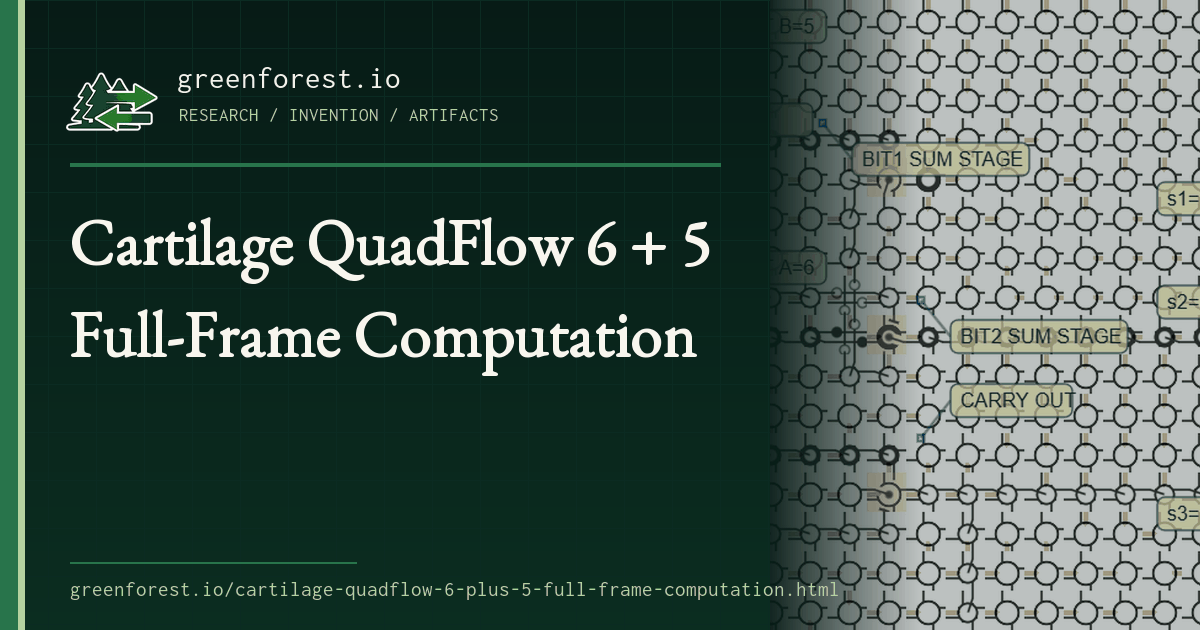
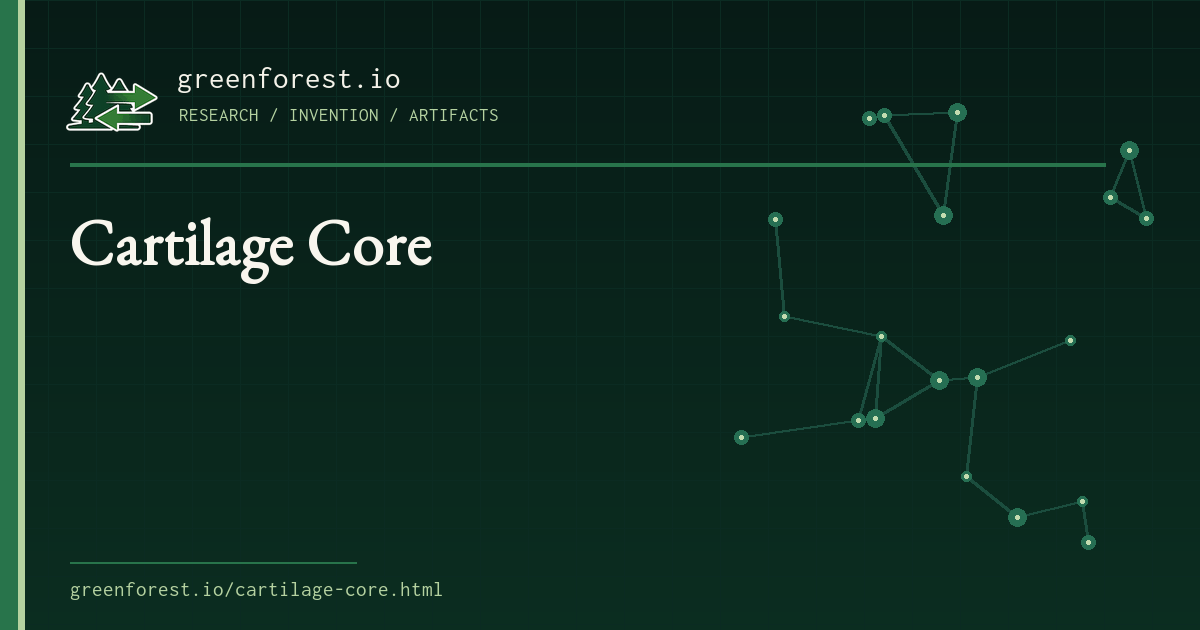
Replace obsolete Cartilage run links

diff --git a/cartilage-quadflow-6-plus-5-full-frame-computation.html b/cartilage-quadflow-6-plus-5-full-frame-computation.html
@@ -1,203 +1,43 @@
-<!doctype html>
+<!DOCTYPE html>
 <html lang="en">
 
 <head>
     <meta charset="utf-8">
-    <meta name="viewport" content="width=device-width, initial-scale=1">
+    <meta name="viewport" content="width=device-width, initial-scale=1, viewport-fit=cover">
+    <title>Cartilage Core | Greenforest I/O</title>
+    <meta name="description" content="This obsolete Cartilage run page has moved to Cartilage Core, the current WebGL, SystemVerilog, hardware-paper, and verification package.">
     <meta name="robots" content="noindex, follow">
-    <title>Cartilage QuadFlow 6 + 5 Full-Frame Computation</title>
-    <meta name="description" content="A full-frame Cartilage/QuadFlow browser-fabric computation of 6 + 5 through a seeded 3-bit ripple-carry adder body: 256 update cycles, 257 captured committed states, QFG source, manifests, and run reports.">
-    <link rel="canonical" href="https://greenforest.io/cartilage-quadflow-6-plus-5-full-frame-computation.html">
-    <meta property="og:title" content="Cartilage QuadFlow 6 + 5 Full-Frame Computation">
-    <meta property="og:description" content="A 257-frame artifact package showing a Cartilage GLSL fabric computing 6 + 5 through a seeded 3-bit ripple-carry adder body.">
-    <meta property="og:type" content="article">
-    <meta property="og:url" content="https://greenforest.io/cartilage-quadflow-6-plus-5-full-frame-computation.html">
-        <link rel="icon" href="/favicon.ico">
+    <link rel="canonical" href="https://greenforest.io/cartilage-core.html">
+    <meta http-equiv="refresh" content="0; url=/cartilage-core.html">
+    <link rel="icon" href="/favicon.ico">
+    <meta property="og:title" content="Cartilage Core">
+    <meta property="og:description" content="The current WebGL, SystemVerilog, hardware-paper, and verification package for Cartilage.">
+    <meta property="og:type" content="website">
+    <meta property="og:url" content="https://greenforest.io/cartilage-core.html">
     <!-- greenforest:share-metadata:start -->
-    <!-- greenforest:preview-source:cartilage/codex5.5/use-static3-a6-b5-callouts-final-state.png -->
+    <!-- greenforest:preview-source:none -->
     <meta property="og:site_name" content="Greenforest I/O">
     <meta property="og:image" content="https://greenforest.io/social-previews/cartilage-quadflow-6-plus-5-full-frame-computation.png">
     <meta property="og:image:secure_url" content="https://greenforest.io/social-previews/cartilage-quadflow-6-plus-5-full-frame-computation.png">
     <meta property="og:image:type" content="image/png">
     <meta property="og:image:width" content="1200">
     <meta property="og:image:height" content="630">
-    <meta property="og:image:alt" content="Cartilage QuadFlow 6 + 5 Full-Frame Computation - Greenforest I/O share preview">
+    <meta property="og:image:alt" content="Cartilage Core - Greenforest I/O share preview">
     <meta name="twitter:card" content="summary_large_image">
     <meta name="twitter:image" content="https://greenforest.io/social-previews/cartilage-quadflow-6-plus-5-full-frame-computation.png">
-    <meta name="twitter:image:alt" content="Cartilage QuadFlow 6 + 5 Full-Frame Computation - Greenforest I/O share preview">
+    <meta name="twitter:image:alt" content="Cartilage Core - Greenforest I/O share preview">
     <script src="/site-analytics.js" defer></script>
     <!-- greenforest:share-metadata:end -->
-    <script type="application/ld+json">
-        {
-            "@context": "https://schema.org",
-            "@type": "Article",
-            "headline": "Cartilage QuadFlow 6 + 5 Full-Frame Computation",
-            "author": {
-                "@type": "Person",
-                "name": "Brian Greenforest"
-            },
-            "datePublished": "2026-06-25",
-            "dateModified": "2026-07-10",
-            "image": "https://greenforest.io/cartilage/codex5.5/use-static3-a6-b5-callouts-final-state.png",
-            "description": "A full-frame Cartilage/QuadFlow browser-fabric computation of 6 + 5 through a seeded 3-bit ripple-carry adder body: 256 update cycles, 257 captured committed states, QFG source, manifests, and run reports.",
-            "mainEntityOfPage": "https://greenforest.io/cartilage-quadflow-6-plus-5-full-frame-computation.html",
-            "publisher": {
-                "@type": "Person",
-                "name": "Brian Greenforest"
-            }
-        }
-    </script>
     <script src="/common-script.js" type="text/javascript"></script>
 </head>
 
-<body>
-    <header>Cartilage QuadFlow 6 + 5 Full-Frame Computation</header>
-    <address>June 25, 2026</address>
-
-    <section class="abstract">
-        <p>The answer is less important than the fact that the computation passes through a readable body.</p>
-        <p>This package documents a real browser-fabric computation: a 64x64 Cartilage GLSL fabric seeded with a generated 3-bit ripple-carry adder body, driven by one external input frame for <code>a = 6</code> and <code>b = 5</code>, then advanced for 256 committed update cycles.</p>
-        <p>The output ports read <code>s0 = 1</code>, <code>s1 = 1</code>, <code>s2 = 0</code>, and <code>s3 = 1</code>. In the adder's little-endian output order that is <code>1101</code>; in ordinary most-significant-bit display order it is <code>1011</code>, decimal <code>11</code>.</p>
-        <div class="status-box">
-            <p><span class="status-label">Measured compute run</span>This page is part of the <a href="/ai-assisted-cartilage-draft-archive.html">Cartilage Run and Sketch Index</a>.</p>
-            <p><strong>Included:</strong> <code>6 + 5 = 11</code>, a <code>64x64</code> fabric, <code>256</code> update cycles, <code>257</code> captured committed states, QFG source, manifests, videos, run reports, and boundary I/O decode.</p>
-            <p><strong>Run focus:</strong> a measured compute pass through a pre-generated adder body, with visible input lanes, output lanes, and expected sum/carry behavior.</p>
-        </div>
-    </section>
-
+<body class="article-structured">
+    <header><h1 class="page-title">Cartilage Core</h1></header>
     <main>
-        <section>
-            <h1>The Compute Claim</h1>
-            <p>The driver does not compute the arithmetic answer. It seeds the browser fabric with primitive Cartilage cell bodies, stages sparse boundary-metal writes for one QFG frame, advances the fabric, and reads the external edge surface.</p>
-            <p>The measured run is not the 525,568-cycle native reconfiguration run. The adder body is installed as the initial QFG seed before the measured compute run begins. The claim here is narrower and easier to read: an existing Cartilage body receives input bits at its boundary and computes the visible result through its cell state.</p>
-        </section>
-
-        <section>
-            <h1>Callout Video</h1>
-            <figure class="timeline-media">
-                <video controls preload="metadata" poster="/cartilage/codex5.5/use-static3-a6-b5-callouts-final-state.png">
-                    <source src="/cartilage/codex5.5/quadflow-use-static3-a6-b5-fullframes-callouts-257.mp4" type="video/mp4">
-                    <a href="/cartilage/codex5.5/quadflow-use-static3-a6-b5-fullframes-callouts-257.mp4">Open the callout MP4</a>
-                </video>
-                <figcaption>The preferred publication video: 257 contiguous committed states, with sparse callouts for operand inputs, sum stages, carry-out, and result ports.</figcaption>
-            </figure>
-            <p><a href="/cartilage/codex5.5/quadflow-use-static3-a6-b5-fullframes-callouts-257.gif">Open the callout GIF preview</a></p>
-        </section>
-
-        <section>
-            <h1>Final State</h1>
-            <figure class="timeline-media">
-                <a href="/cartilage/codex5.5/use-static3-a6-b5-callouts-final-state.png">
-                    <img src="/cartilage/codex5.5/use-static3-a6-b5-callouts-final-state.png" alt="Final callout-rendered Cartilage state for the 6 plus 5 computation, labeling input A, input B, sum stages, carry out, and s0 through s3 result ports">
-                </a>
-                <figcaption>The final committed state labels <code>INPUT_A=6</code>, <code>INPUT_B=5</code>, <code>BIT1_SUM_STAGE</code>, <code>BIT2_SUM_STAGE</code>, <code>CARRY_OUT</code>, and the four result ports.</figcaption>
-            </figure>
-        </section>
-
-        <section>
-            <h1>The Artifact Bundle</h1>
-            <p>The files are preserved under <code>cartilage/codex5.5/</code>. These links point to concrete files, not directory listings.</p>
-            <ul class="artifact-list">
-                <li><a href="/cartilage/codex5.5/quadflow-use-static3-a6-b5-fullframes.md">quadflow-use-static3-a6-b5-fullframes.md</a> - package note and reproduction commands.</li>
-                <li><a href="/cartilage/codex5.5/use-static3-a6-b5.qfg">use-static3-a6-b5.qfg</a> - exact QFG source streamed into the browser fabric.</li>
-                <li><a href="/cartilage/codex5.5/use-static3-a6-b5-callouts.surface.qfg">use-static3-a6-b5-callouts.surface.qfg</a> - sparse publication callout labels.</li>
-                <li><a href="/cartilage/codex5.5/use-static3-a6-b5-run-report.md">use-static3-a6-b5-run-report.md</a> - raw lockstep run report for the coordinate render.</li>
-                <li><a href="/cartilage/codex5.5/use-static3-a6-b5-callouts-run-report.md">use-static3-a6-b5-callouts-run-report.md</a> - raw lockstep run report for the callout render.</li>
-                <li><a href="/cartilage/codex5.5/quadflow-use-static3-a6-b5-fullframes-manifest.json">quadflow-use-static3-a6-b5-fullframes-manifest.json</a> - frame list, hashes, and verification metadata for the plain render.</li>
-                <li><a href="/cartilage/codex5.5/quadflow-use-static3-a6-b5-fullframes-callouts-manifest.json">quadflow-use-static3-a6-b5-fullframes-callouts-manifest.json</a> - frame list, hashes, and verification metadata for the callout render.</li>
-            </ul>
-        </section>
-
-        <section>
-            <h1>Frame Coverage</h1>
-            <p>The computation ran for 256 fabric update cycles. The capture contains 257 PNGs because it includes cycle <code>0</code>, then every committed state after cycles <code>1</code> through <code>256</code>. The MP4 frame count was verified as 257 frames at 512x512 and 30 fps.</p>
-            <p>Representative direct frame links:</p>
-            <ul class="artifact-list">
-                <li><a href="/cartilage/codex5.5/use-static3-a6-b5-fullframes-callouts/use-static3-a6-b5-fullframes-callouts-cycle-000000.png">callout cycle 000000</a></li>
-                <li><a href="/cartilage/codex5.5/use-static3-a6-b5-fullframes-callouts/use-static3-a6-b5-fullframes-callouts-cycle-000256.png">callout cycle 000256</a></li>
-                <li><a href="/cartilage/codex5.5/use-static3-a6-b5-fullframes/use-static3-a6-b5-fullframes-cycle-000000.png">plain cycle 000000</a></li>
-                <li><a href="/cartilage/codex5.5/use-static3-a6-b5-fullframes/use-static3-a6-b5-fullframes-cycle-000256.png">plain cycle 000256</a></li>
-            </ul>
-            <p>The manifests contain the complete 257-frame lists and SHA-256 hashes for both frame sequences.</p>
-        </section>
-
-        <section>
-            <h1>Boundary Inputs</h1>
-            <p>The generated QFG contains 469 seed cells and one operand frame. It contains no embedded <code>expect</code> lines. That matters because the result is read back from the external edge surface, not from expected-output clauses inside the input stream.</p>
-            <p>The high-level frame comment in the QFG source is:</p>
-            <pre><code># a=6 b=5 -&gt; 1101
-frame 256
-boundary left 7 gnd parent left
-boundary left 13 gnd parent left
-boundary left 3 pwr parent left
-boundary right 8 pwr parent right
-boundary left 11 pwr parent left
-boundary left 23 pwr parent left
-boundary left 27 pwr parent left
-boundary left 17 gnd parent left
-boundary left 22 gnd parent left
-boundary left 25 gnd parent left
-boundary left 41 pwr parent left
-boundary left 45 pwr parent left
-boundary left 35 pwr parent left
-boundary left 40 pwr parent left
-boundary left 43 pwr parent left</code></pre>
-            <p>For <code>a = 6</code>, the operand bits are <code>a0=0</code>, <code>a1=1</code>, <code>a2=1</code>. For <code>b = 5</code>, they are <code>b0=1</code>, <code>b1=0</code>, <code>b2=1</code>. Those become the <code>pwr</code> and <code>gnd</code> boundary lines in the QFG frame.</p>
-        </section>
-
-        <section>
-            <h1>Output Readout</h1>
-            <p>The run report says the final active boundary outputs were at left edge position 8, right edge position 16, and right edge position 48. The documented output decode is:</p>
-            <pre><code>left[8]       -&gt; s0 = 1
-right.sl[16]  -&gt; s1 = 1
-right.sl[34]  -&gt; s2 = 0
-right.sl[48]  -&gt; s3 = 1</code></pre>
-            <p>So the emitted result order is <code>s0 s1 s2 s3 = 1101</code>. Interpreted in ordinary display order, that is <code>1011</code>, decimal <code>11</code>.</p>
-        </section>
-
-        <section>
-            <h1>Callouts Are Not Computation</h1>
-            <p>The callout layer is drawn after the fabric state is rendered. It labels input regions, output ports, and core adder regions for explanation. It does not alter any cell, edge, Sinew metal, Intersin value, QFG frame, or result bit.</p>
-            <pre><code>mark 0 23 INPUT_A=6
-mark 0 3 INPUT_B=5
-mark 15 12 BIT1_SUM_STAGE
-mark 25 30 BIT2_SUM_STAGE
-mark 25 44 CARRY_OUT
-mark 0 8 s0=1
-mark 63 16 s1=1
-mark 63 34 s2=0
-mark 63 48 s3=1</code></pre>
-        </section>
-
-        <section>
-            <h1>Run Boundary</h1>
-            <p>This is still a small computation, and the adder body is pre-generated before the measured run starts. The useful part is that the source QFG, boundary frame, run report, manifests, first and final frames, videos, and every committed PNG state are all part of the published artifact package.</p>
-        </section>
-        <section class="cartilage-visual-link">
-            <h1>Cartilage Visual Language</h1>
-            <p>The 32 Cartilage cell-role codes are a compact body-type alphabet: reconfiguration port, cross, constants, four wire orientations, and six MUX modes in four orientations. The <a href="/cartilage-visual-language.html">Cartilage Visual Language</a> article shows the rendered key and decodes all 32 codes.</p>
-        </section>
-
-        <section>
-            <h1>Current Core Reference</h1>
-            <p><a href="/cartilage-core.html">Cartilage Core</a> and the <a href="https://github.com/avesus/cartilage-core" target="_blank" rel="noopener">public source repository</a> are the current compact mechanism and hardware reference. They are not the source tree for this older QuadFlow/QFG run; the bundle above remains authoritative for the stated <code>6 + 5 = 11</code> result.</p>
-        </section>
-
-        <section>
-            <h1>Readout Boundary</h1>
-            <p>The boundary writes, callout labels, output readout, and manifest hashes should all line up with the stated <code>6 + 5 = 11</code> result.</p>
+        <section class="abstract">
+            <p>This obsolete run page has been replaced by <a href="/cartilage-core.html">Cartilage Core</a>, the current compact implementation, architecture paper, SystemVerilog RTL, and verification package.</p>
         </section>
     </main>
-
-    <nav class="article-links">
-        <p>Read next:</p>
-        <a href="/ai-assisted-cartilage-draft-archive.html">Cartilage Run and Sketch Index</a>
-        <p>A guide to the Cartilage run, timeline, and sketch pages.</p>
-        <p>More:</p>
-        <a href="/cartilage-nested-instantiation-demo.html">Cartilage Nested-Instantiation Demo</a>
-        <p>The local-port and bounded-region model behind these browser-fabric artifacts.</p>
-        <a href="/">Go back</a>
-    </nav>
 </body>
 
 </html>

diff --git a/ai-assisted-cartilage-draft-archive.html b/ai-assisted-cartilage-draft-archive.html
@@ -64,11 +64,6 @@
                 },
                 {
                     "@type": "CreativeWork",
-                    "name": "Cartilage QuadFlow 6 + 5 Full-Frame Computation",
-                    "url": "https://greenforest.io/cartilage-quadflow-6-plus-5-full-frame-computation.html"
-                },
-                {
-                    "@type": "CreativeWork",
                     "name": "Cartilage PC Stepper Islands",
                     "url": "https://greenforest.io/cartilage-pc-stepper-islands.html"
                 },
@@ -102,7 +97,7 @@
         <p>The set includes public source and RTL, a checked ripple-adder run, recorded reconfiguration timelines, visual placement sketches, source artifacts, and render outputs. The useful job is to keep each evidence layer easy to tell apart.</p>
         <div class="status-box">
             <p><span class="status-label">Cartilage index</span>Use this page to choose between current Cartilage explainers, checked runs, recorded timelines, and visual placement sketches.</p>
-            <p><strong>Included:</strong> the current core package, seven run/sketch/debug links, their role in the Cartilage material, and the current reading order.</p>
+            <p><strong>Included:</strong> the current core package, six run/sketch/debug links, their role in the Cartilage material, and the current reading order.</p>
         </div>
     </section>
 
@@ -124,11 +119,10 @@
 
         <section>
             <h2>Run And Sketch Pages</h2>
-            <p>These seven pages are useful when you need run material, source artifacts, rendered frames, placement sketches, or the small mux debug fixture.</p>
+            <p>These six pages are useful when you need run material, source artifacts, rendered frames, placement sketches, or the small mux debug fixture.</p>
             <ul>
                 <li><a href="/cartilage-verified-ripple2-adder.html">Cartilage Verified Ripple2 Adder</a></li>
                 <li><a href="/cartilage-exact-frame-reconfiguration-run.html">Cartilage Exact-Frame Reconfiguration Run</a></li>
-                <li><a href="/cartilage-quadflow-6-plus-5-full-frame-computation.html">Cartilage QuadFlow 6 + 5 Full-Frame Computation</a></li>
                 <li><a href="/cartilage-pc-stepper-islands.html">Cartilage PC Stepper Islands</a></li>
                 <li><a href="/cartilage-full-adder-islands.html">Cartilage Full-Adder Islands</a></li>
                 <li><a href="/cartilage-quadflow-525568-cycle-timeline.html">Cartilage QuadFlow 525,568-Cycle Timeline</a></li>

diff --git a/cartilage/index.html b/cartilage/index.html
@@ -213,9 +213,9 @@
                     <p>The compact WebGL1 model, hardware paper, SystemVerilog RTL, Verilator testbench, and one exact 252-bit installation.</p>
                 </div>
                 <div class="chapter-card">
-                    <span class="chapter-number">Inspect computation</span>
-                    <h3><a href="/cartilage-quadflow-6-plus-5-full-frame-computation.html">6 + 5 Full-Frame Run</a></h3>
-                    <p>A seeded 3-bit ripple-carry adder body, 256 updates, 257 captured states, source, manifests, and run reports.</p>
+                    <span class="chapter-number">Read the architecture</span>
+                    <h3><a href="https://github.com/avesus/cartilage-core/blob/main/paper/cartilage-compute.md" target="_blank" rel="noopener">Cartilage Compute Hardware Paper</a></h3>
+                    <p>The editable architecture paper defines the local configuration protocol, cell roles, ownership boundary, runtime application behavior, and verification scope.</p>
                 </div>
             </div>
             <p><a href="/ai-assisted-cartilage-draft-archive.html">Use the Cartilage run and sketch index</a> only when you need the wider record of checked runs, timelines, sketches, and debug fixtures.</p>